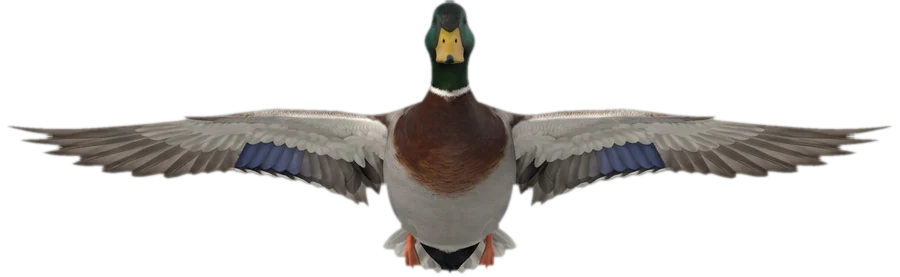
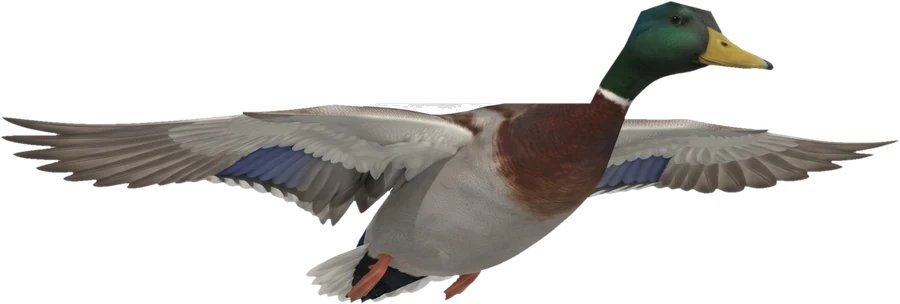
La Chasse : canard et lapin de profil
Nouvelles images du propriétaire détourées (canard en vol et lapin qui court, vus de profil), tailles ajustées.

Claude-Session: https://claude.ai/code/session_017EaWtLdQRTjeEwFi1BBvSV

Changed region(s): [[0.0, 0.0, 0.9956, 1.0]]

diff --git a/index.html b/index.html
@@ -7834,7 +7834,7 @@ __mods['updates.js'] = (() => {
 const { getGame } = __mods['games/index.js'];
 
 const UPDATES = [
-  { game: 'chasse', date: '2026-11-02', title: 'La Chasse en vraies images', isNew: true, items: ['Nouveaux décors peints : jour, coucher du soleil et nuit', 'Vrais animaux : canards, faisans, lapins, sangliers, cerfs', '5 cartouches et 30 secondes : chaque animal touché révèle un multiplicateur de ×0 à ×100', 'Le cerf doré, rare et très rapide : ×1 000 !', 'Plein écran à l’horizontale sur téléphone et sur ordinateur'] },
+  { game: 'chasse', date: '2026-11-02', title: 'La Chasse en vraies images', isNew: true, items: ['Nouveaux décors peints : jour, coucher du soleil et nuit', 'Vrais animaux : canards et lapins de profil, faisans, sangliers, cerfs', '5 cartouches et 30 secondes : chaque animal touché révèle un multiplicateur de ×0 à ×100', 'Le cerf doré, rare et très rapide : ×1 000 !', 'Plein écran à l’horizontale sur téléphone et sur ordinateur'] },
   { game: 'taco', date: '2026-11-02', title: 'Nouveau jeu : La Pizza Yo-Yo', isNew: true, items: ['La Fiesta devient La Pizza Yo-Yo : une pizza ronde qui tourne', '4 symboles qui se touchent gagnent, les grosses connexions écartent une part', 'Food trucks multiplicateurs jusqu’à ×50', 'Bonus Le Four : 4 pepperonis = une part de plus et +2 tours'] },
   { game: 'pharaon', date: '2026-11-02', title: 'Le Totem illustré', items: ['Nouveaux symboles peints : masque du pharaon, faucon, ankh d’or, cobra, scarabée, amphore', 'Nouveau soleil scatter', 'Nouveau décor : le pharaon à l’orbe (et le pharaon sur son trône sur téléphone)', 'Nouvelle jaquette']},
   { game: 'billets', date: '2026-11-01', title: 'Nouveaux billets', items: ['Nouvelle jaquette : la montagne de billets', 'Nouveaux billets de 5 à 200 KE, nouvelle mallette, billet FREE SPINS et coffre JACKPOT', 'Nouveau décor : la pluie de billets', 'Affichage épuré et plein écran sur tout l’écran'] },
@@ -10498,7 +10498,7 @@ const FILES = {
   taco: ['taco', 'games/impl/taco.js', 'PizzaGame', '171e756bb8'],
   robots: ['robots', 'games/impl/robots.js', 'RobotsGame', '200ec4fe09'],
   pileface: ['pileface', 'games/impl/pileface.js', 'PileFaceGame', 'ee4862aacf'],
-  chasse: ['chasse', 'games/impl/chasse.js', 'ChasseGame', '8cfa58cd33'],
+  chasse: ['chasse', 'games/impl/chasse.js', 'ChasseGame', '688ad69977'],
   poulet: ['poulet', 'games/impl/poulet.js', 'PouletGame', '4b91b43686'],
   gratteciel: ['gratteciel', 'games/impl/gratteciel.js', 'GratteCielGame', '0b8ac20d26'],
   penalty: ['penalty', 'games/impl/penalty.js', 'PenaltyGame', '13250e3224'],

diff --git a/games/chasse.js b/games/chasse.js
@@ -24,20 +24,20 @@ const goldHit = () => Math.random() < GOLD.success;
 const payout = (bet, sum) => Math.floor((bet * sum) / SHOTS); // cents
 /* ===END ENGINE */
 
-const IMG_V = 2;
+const IMG_V = 3;
 const asset = (p) => window.__assets?.[p] || `${p}?v=${IMG_V}`; // single-file version: images are inlined
 const src = (n) => asset(`assets/games/chasse/${n}.webp`);
 const xs = (m) => (m >= 100 ? Math.round(m).toLocaleString('fr-FR') : String(m).replace('.', ','));
 // sprites: image, natural facing (1 right, -1 left), width (% of the field), sky or ground, crossing time (s), weight
 const KINDS = {
-  duck: { img: 'duck', face: 1, w: 12, sky: true, t: 4.6, wgt: 3, name: 'Canard' },
+  duck: { img: 'duck', face: 1, w: 14, sky: true, t: 4.6, wgt: 3, name: 'Canard' },
   pheasant: { img: 'pheasant', face: 1, w: 15, sky: true, t: 3.9, wgt: 2, name: 'Faisan' },
-  rabbit: { img: 'rabbit', face: -1, w: 5.5, t: 3.6, wgt: 3, hop: true, name: 'Lapin' },
+  rabbit: { img: 'rabbit', face: 1, w: 9, t: 3.6, wgt: 3, hop: true, name: 'Lapin' },
   boar: { img: 'boar', face: 1, w: 15, t: 4.3, wgt: 2, name: 'Sanglier' },
   deer: { img: 'deer', face: 1, w: 21, t: 3.4, wgt: 1, name: 'Cerf' },
   deer2: { img: 'deer2', face: -1, w: 19, t: 3.2, wgt: 1, hop: true, name: 'Cerf' },
 };
-const RATIO = { duck: 277 / 900, pheasant: 361 / 900, rabbit: 679 / 500, boar: 451 / 900, deer: 610 / 900, deer2: 724 / 900, gold: 610 / 900, tree: 519 / 800, log: 152 / 900 };
+const RATIO = { duck: 304 / 900, pheasant: 361 / 900, rabbit: 462 / 900, boar: 451 / 900, deer: 610 / 900, deer2: 724 / 900, gold: 610 / 900, tree: 519 / 800, log: 152 / 900 };
 const TOD = ['day', 'dusk', 'night'];
 const pickKind = () => { const l = Object.entries(KINDS); let r = Math.random() * l.reduce((a, [, k]) => a + k.wgt, 0); for (const [id, k] of l) { if (r < k.wgt) return id; r -= k.wgt; } return 'duck'; };
 const rand = (a, b) => a + Math.random() * (b - a);
